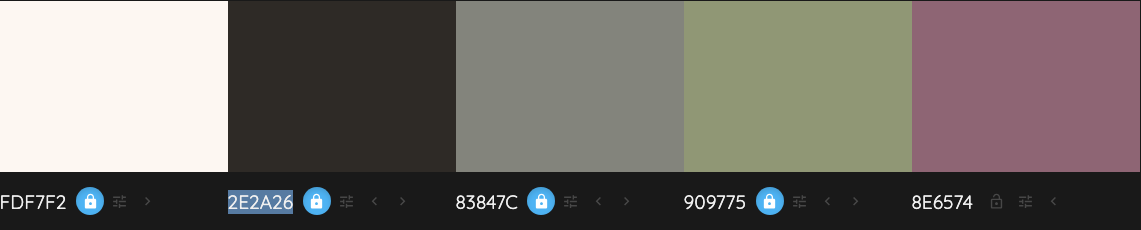
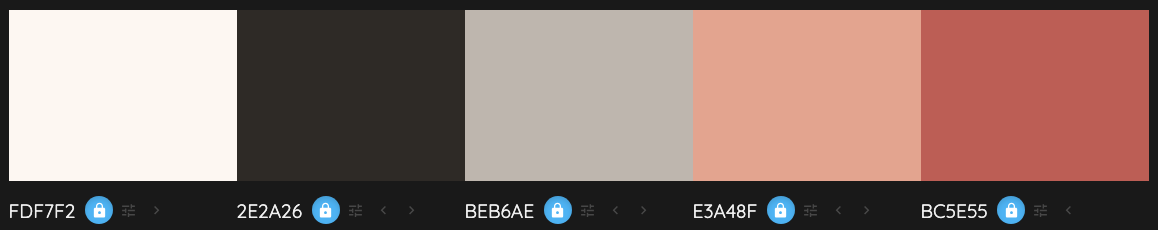
update color palette

diff --git a/assets/css/style.css b/assets/css/style.css
@@ -6,9 +6,11 @@
     --seconday-font: "Rubik", sans-serif;
     --accent-font: "Lora", serif;
 
-    --primary-color: #83847C;
-    --secondary-color:#2E2A26;
-    --highlight-color:#8E6574;
+    --dark-color: #2E2A26;
+    --light-color: #FDF7F2;
+    --midtone-color: #BEB6AE;
+    --highlight-color:#BC5E55;
+    --light-highlight-color: #E3A48F;
 }
 
 /* General styling */
@@ -19,9 +21,8 @@
 }
 
 body{
-    font-family: var(--primary-color);
-    background-color: var(--primary-color);
-    color:var(--secondary-color);
+    font-family: var(--primary-font);
+    background-color: var(--light-color);
 }
 
 h1 {
